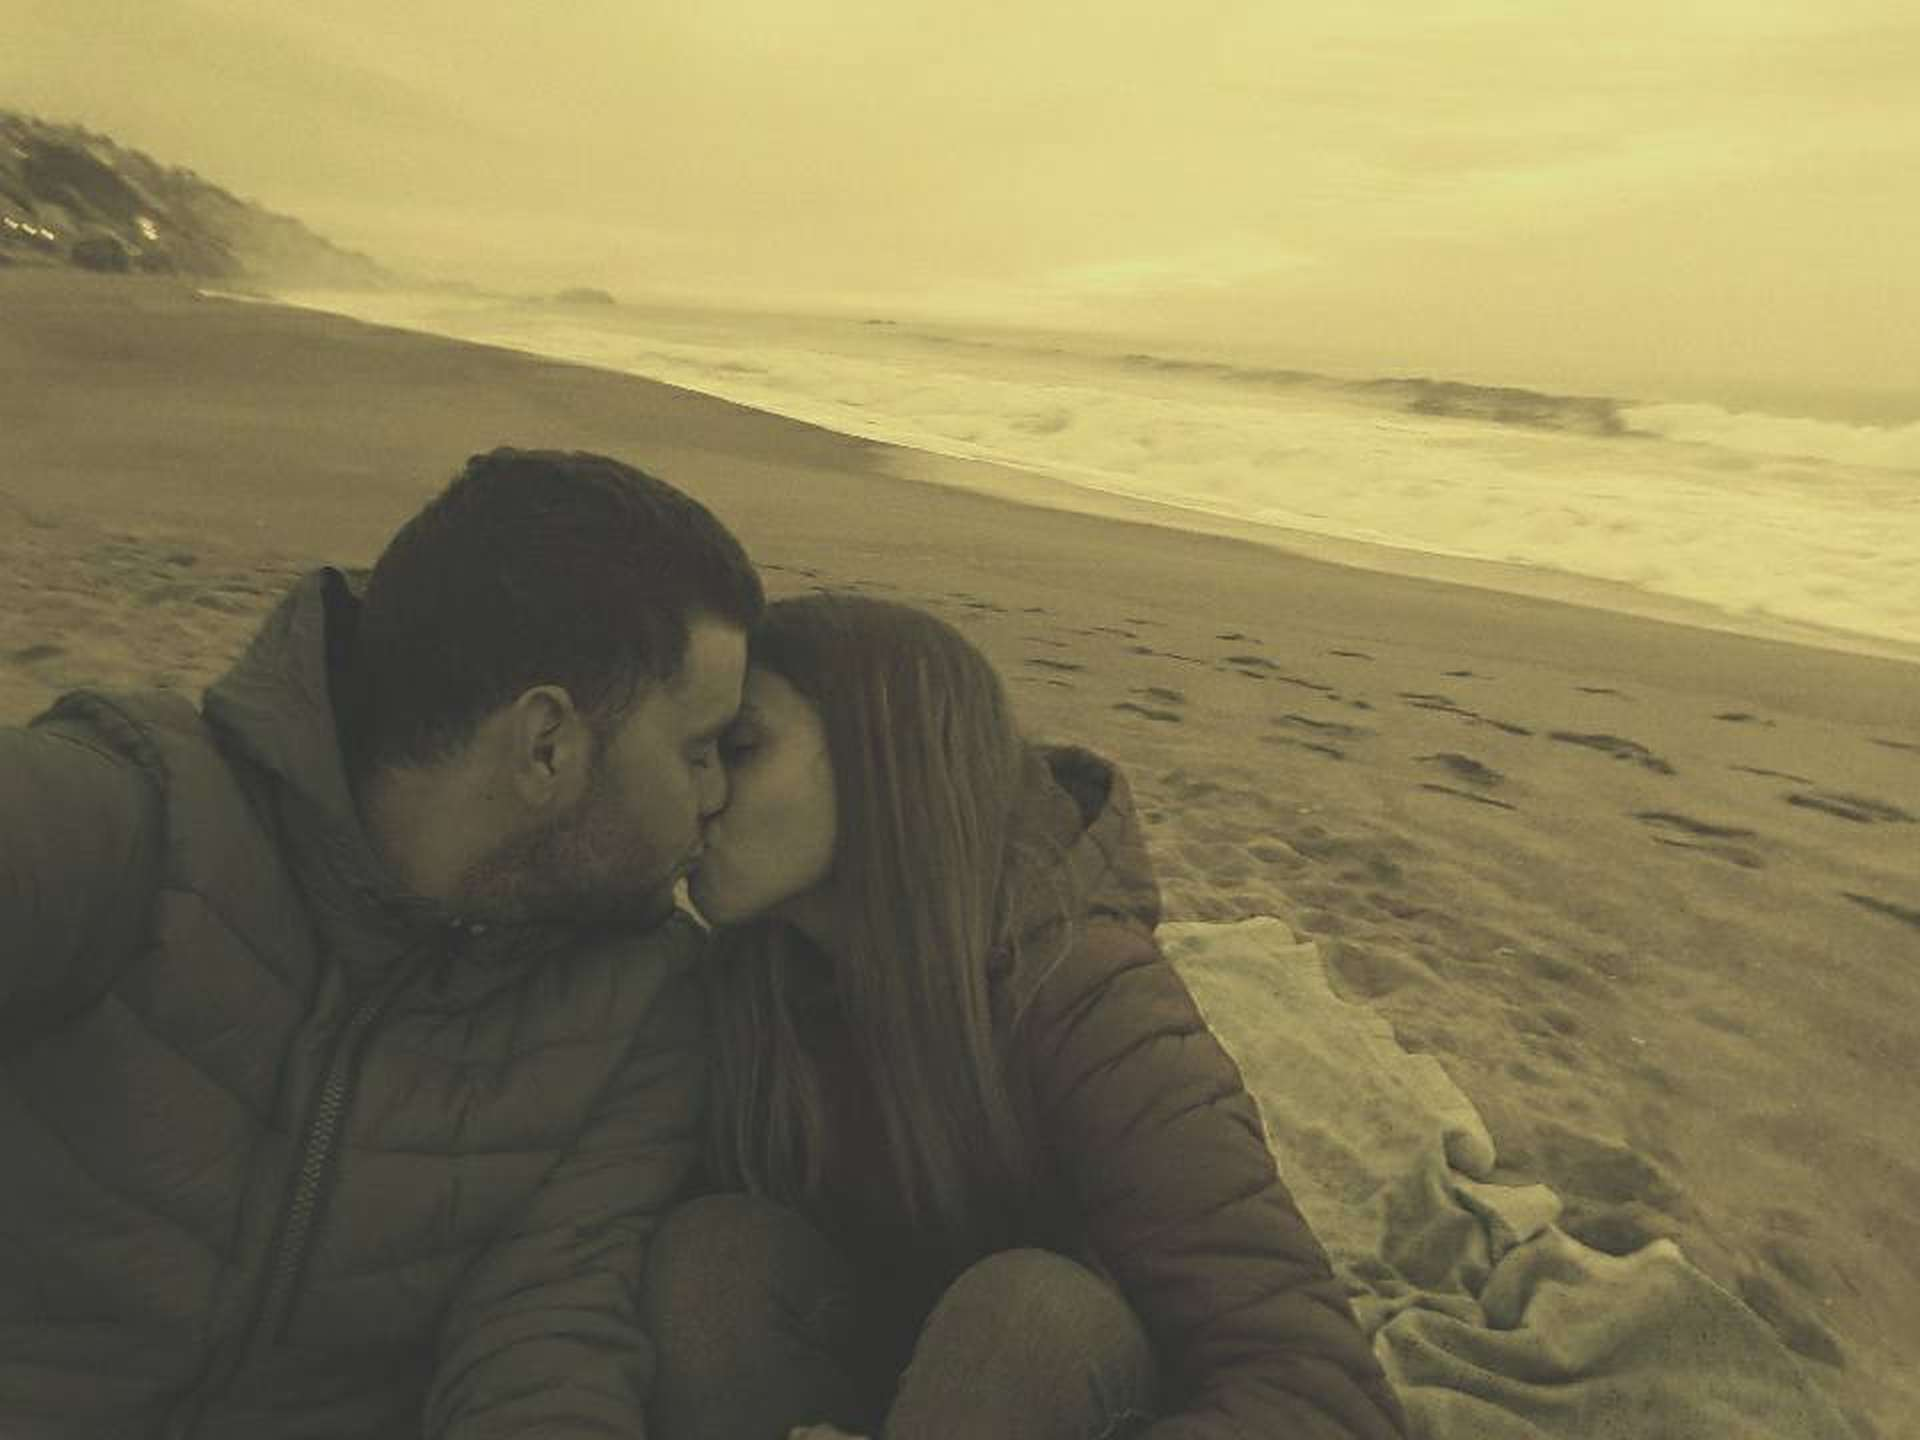
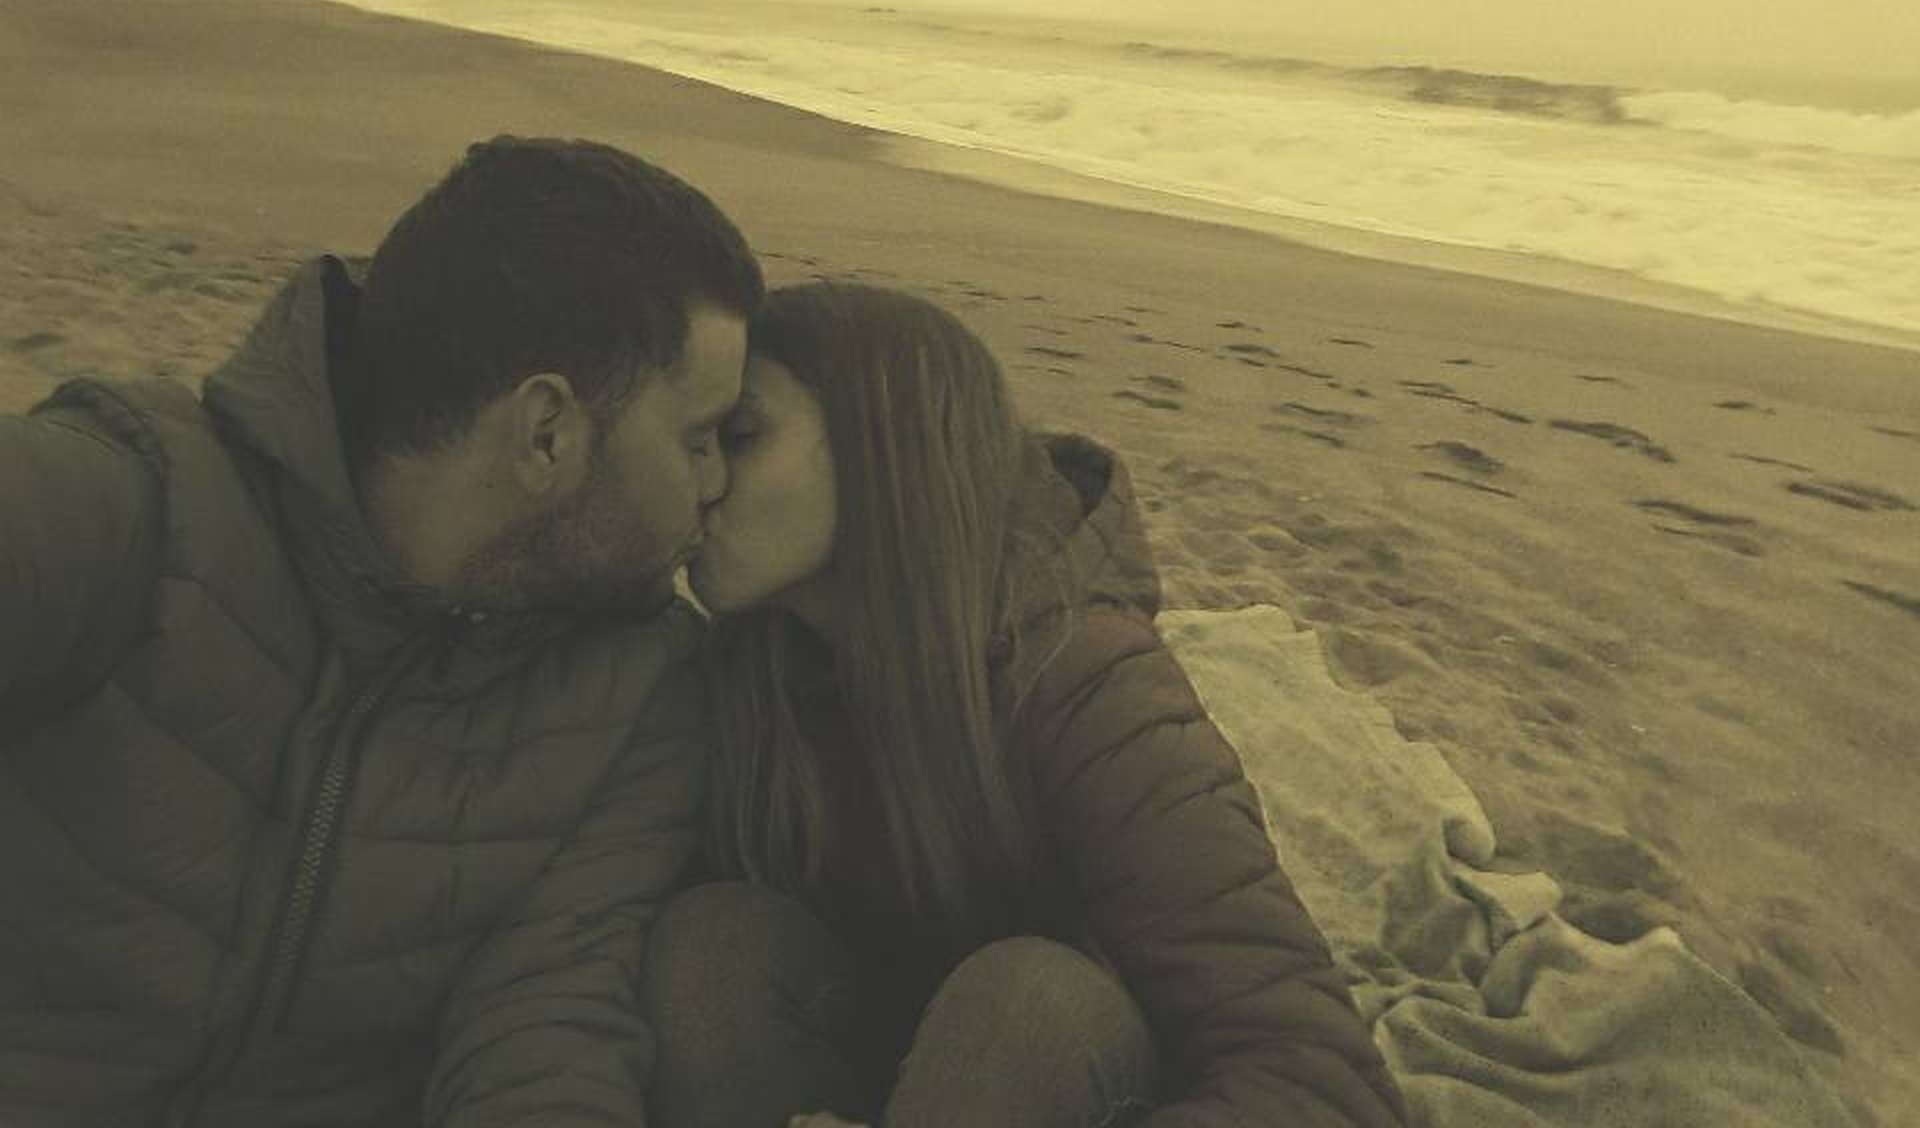
cambiadas imagenes

diff --git a/estilos.css b/estilos.css
@@ -604,9 +604,9 @@ span {
    
 
     .container-all {
-        position: initial; 
-        max-width: 2000px;
-        width: 237%;
+        position: absolute; 
+        max-width: 100%;
+        width: 100%;
         height: 100%;
         border-radius: 6px;
         overflow: hidden;
